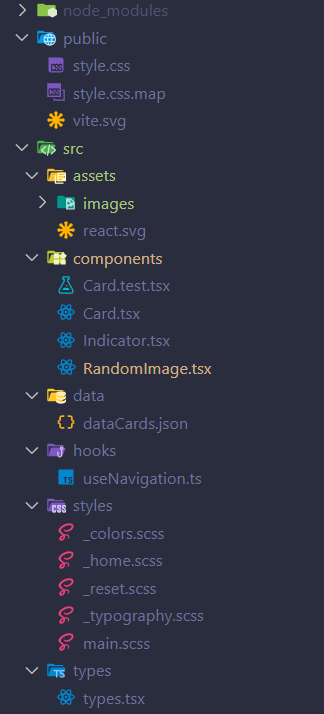
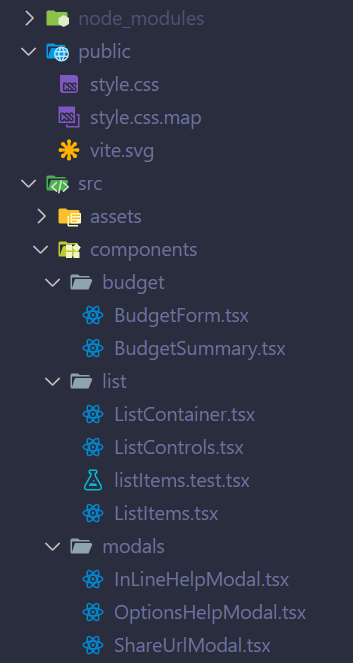
Add documentation of project and images

Changed region(s): [[0.0617, 0.0, 0.8642, 0.9955], [0.0617, 0.2715, 0.0926, 0.3017]]

diff --git a/README.md b/README.md
@@ -2,7 +2,10 @@
 
 Albert Valls
 
-![Imatge de la card](./src/assets/images/cardImage.png)
+![Imatge de la card](./src/assets/images/budget-welcome.png)
+![Imatge de la card](./src/assets/images/budget-summary.png)
+![Imatge de la card](./src/assets/images/budget-form.png)
+![Imatge de la card](./src/assets/images/budget-cards.png)
 
 ## 📚 Índex / Table of Contents
 
@@ -16,8 +19,7 @@ Albert Valls
 
 ## 1. Sobre el projecte / About
 
-**CAT:**  
-ChatGPT said:
+**CAT:**
 
 Aquest projecte consisteix en una aplicació web interactiva, desenvolupada amb React i TypeScript sobre Vite, que facilita el càlcul i la gestió de pressupostos per a serveis de màrqueting i desenvolupament web. A la pantalla principal, l’usuari /ària tria entre tres opcions: campanya SEO (300 €), campanya de publicitat Ads (400 €) o pàgina web (500 €). Si selecciona la pàgina web, apareix un component addicional per ajustar el nombre de pàgines i d’idiomes, amb un cost extra de 30 € per unitat, calculat automàticament com (pàgines + idiomes) × 30 €.
 
@@ -25,7 +27,8 @@ Un cop configurades les opcions, l’usuari /ària pot omplir un formulari amb l
 
 S’ha treballat amb una estructura modular de components, hooks personalitzats per al comptador d’opcions i lògica de construcció de query-strings, estils SCSS amb variables globals i BEM, i routing amb React Router per navegar entre la pantalla de benvinguda i la calculadora. Aquesta organització garanteix mantenibilitat, reutilització i escalabilitat del codi, així com una experiència d’usuari clara i accessible.
 
-**EN:**  
+**EN:**
+
 This project is an interactive web application built with React and TypeScript on top of Vite, designed to streamline the calculation and management of budgets for marketing and web‐development services. On the main screen, users can choose between three options: an SEO campaign (€300), an Ads campaign (€400), or a website (€500). If the website option is selected, an additional component appears allowing the user to specify the number of pages and languages, with an extra cost of €30 per unit, automatically calculated as (pages + languages) × €30.
 
 After configuring their choices, users can fill out a form with client information (name, phone, email) and add as many budgets as they wish, each displaying its total cost and service breakdown. The budget list is presented in reusable cards that can be sorted by date, amount, or alphabetically, and filtered via a name search. Furthermore, each budget card includes a button to share its link: the URL is generated in real time to match the selected options and is displayed in an accessible modal for easy copying.
@@ -76,9 +79,11 @@ The following image illustrates the main folder structure of the project:
 
 ![Project Structure](./src/assets/images/treeImage-1.png)
 ![Project Structure](./src/assets/images/treeImage-2.png)
+![Project Structure](./src/assets/images/treeImage-3.png)
+![Project Structure](./src/assets/images/treeImage-4.png)
 
 ```
-2025-s4-albertvalls/
+2025-s6-albertvalls/
 ├── node_modules/
 ├── public/
 │   ├── style.css
@@ -87,30 +92,52 @@ The following image illustrates the main folder structure of the project:
 ├── src/
 │   ├── assets/
 │   │   ├── images/
-│   │   │   ├── cardImage.png
-│   │   │   ├── treeImage_1.png
-│   │   │   └── treeImage_2.png
 │   │   └── react.svg
 │   ├── components/
-│   │   ├── Card.test.tsx
-│   │   ├── Card.tsx
-│   │   └── RandomImage.tsx
-│   ├── data/
+│   │   ├── budget/
+│   │   │   ├── BudgetForm.tsx
+│   │   │   └── BudgetSummary.tsx
+│   │   ├── list/
+│   │   │   ├── ListContainer.tsx
+│   │   │   ├── ListControls.tsx
+│   │   │   ├── ListItems.tsx
+│   │   │   └── listItems.test.tsx
+│   │   ├── modals/
+│   │   │   ├── InLineHelpModal.tsx
+│   │   │   ├── OptionsHelpModal.tsx
+│   │   │   └── ShareUrlModal.tsx
+│   │   └── services/
+│   │       ├── Card.tsx
+│   │       ├── WebCardOptions.tsx
+│   │       └── Card.test.tsx
+│   │── data/
+│   │   ├── dataBudgets.json
 │   │   └── dataCards.json
-│   ├── hooks/
-│   │   └── useNavigation.ts
-│   ├── styles/
+│   │── hooks/
+│   │   ├── useListItems.ts
+│   │   ├── useOptionsCounter.ts
+│   │   └── useOptionsCounter.test.ts
+│   │── pages/
+│   │   ├── BudgetPage.tsx
+│   │   └── WelcomePage.tsx
+│   │── styles/
+│   │   ├── _buttons.scss
 │   │   ├── _colors.scss
 │   │   ├── _home.scss
+│   │   ├── _modals.scss
 │   │   ├── _reset.scss
 │   │   ├── _typography.scss
+│   │   ├── _variables.scss
 │   │   └── main.scss
-│   ├── types/
+│   │── types/
 │   │   └── types.tsx
-│   ├── App.tsx
-│   ├── main.tsx
-│   ├── setupTests.ts
+│   │── utils/
+│   │   └── urlUtils.ts
+│   │── AppRoutes.tsx
+│   │── main.tsx
+│   │── setupTests.ts
 │   └── vite-env.d.ts
+├── .editorconfig
 ├── .gitignore
 ├── eslint.config.js
 ├── index.html
